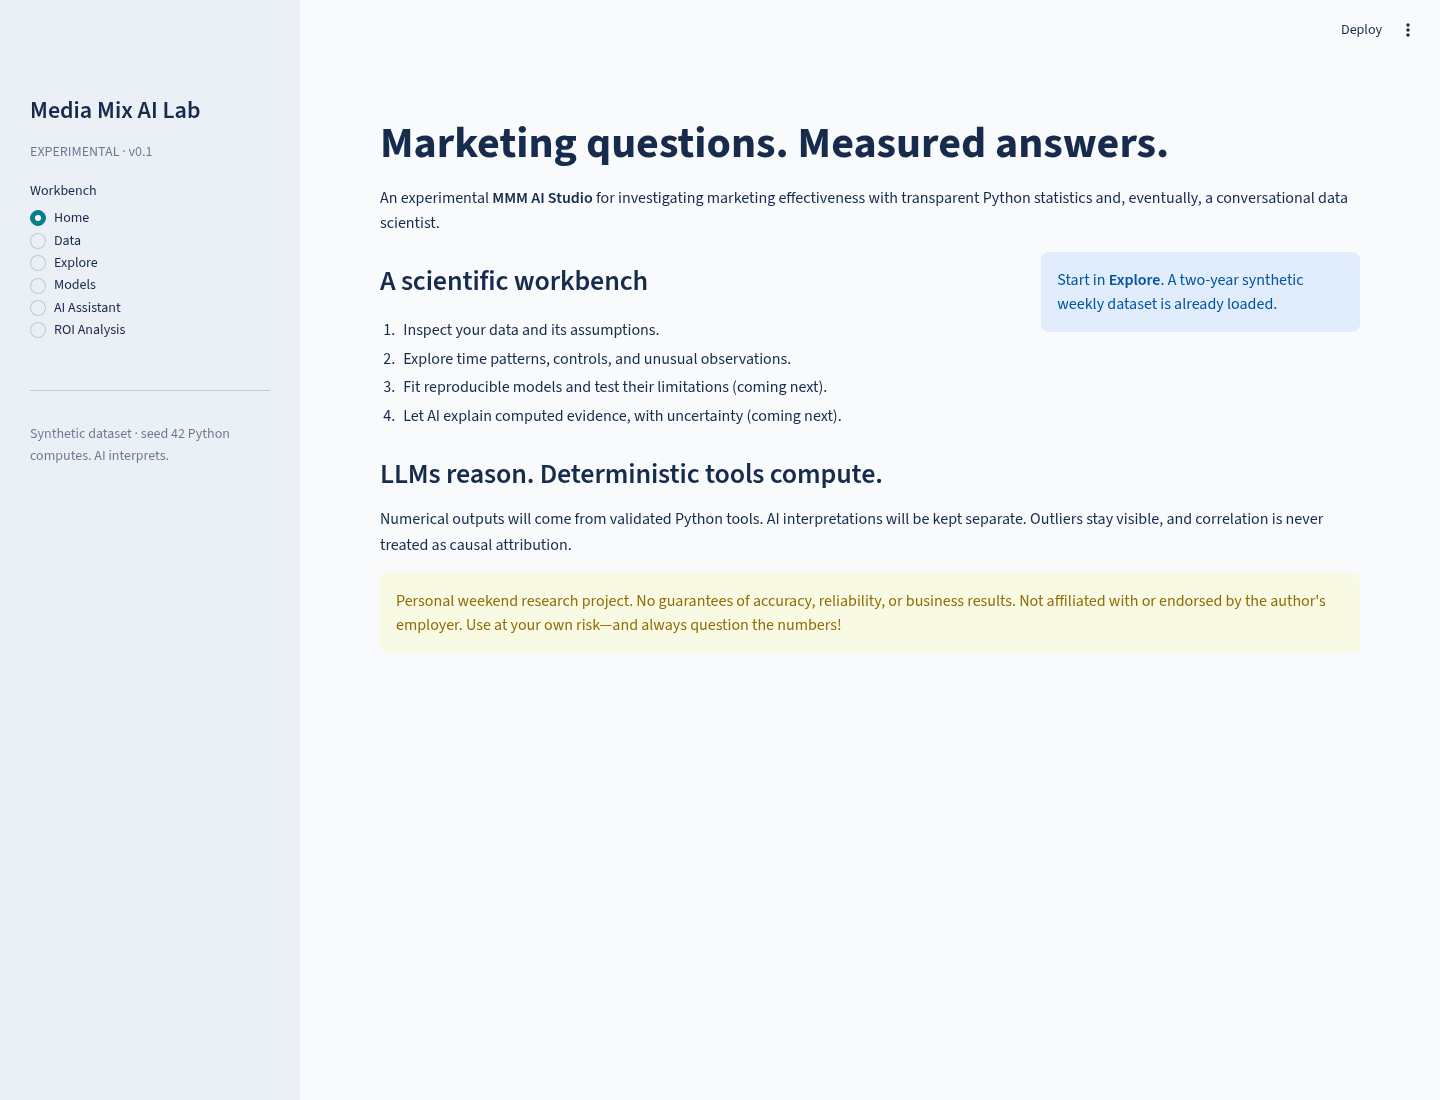
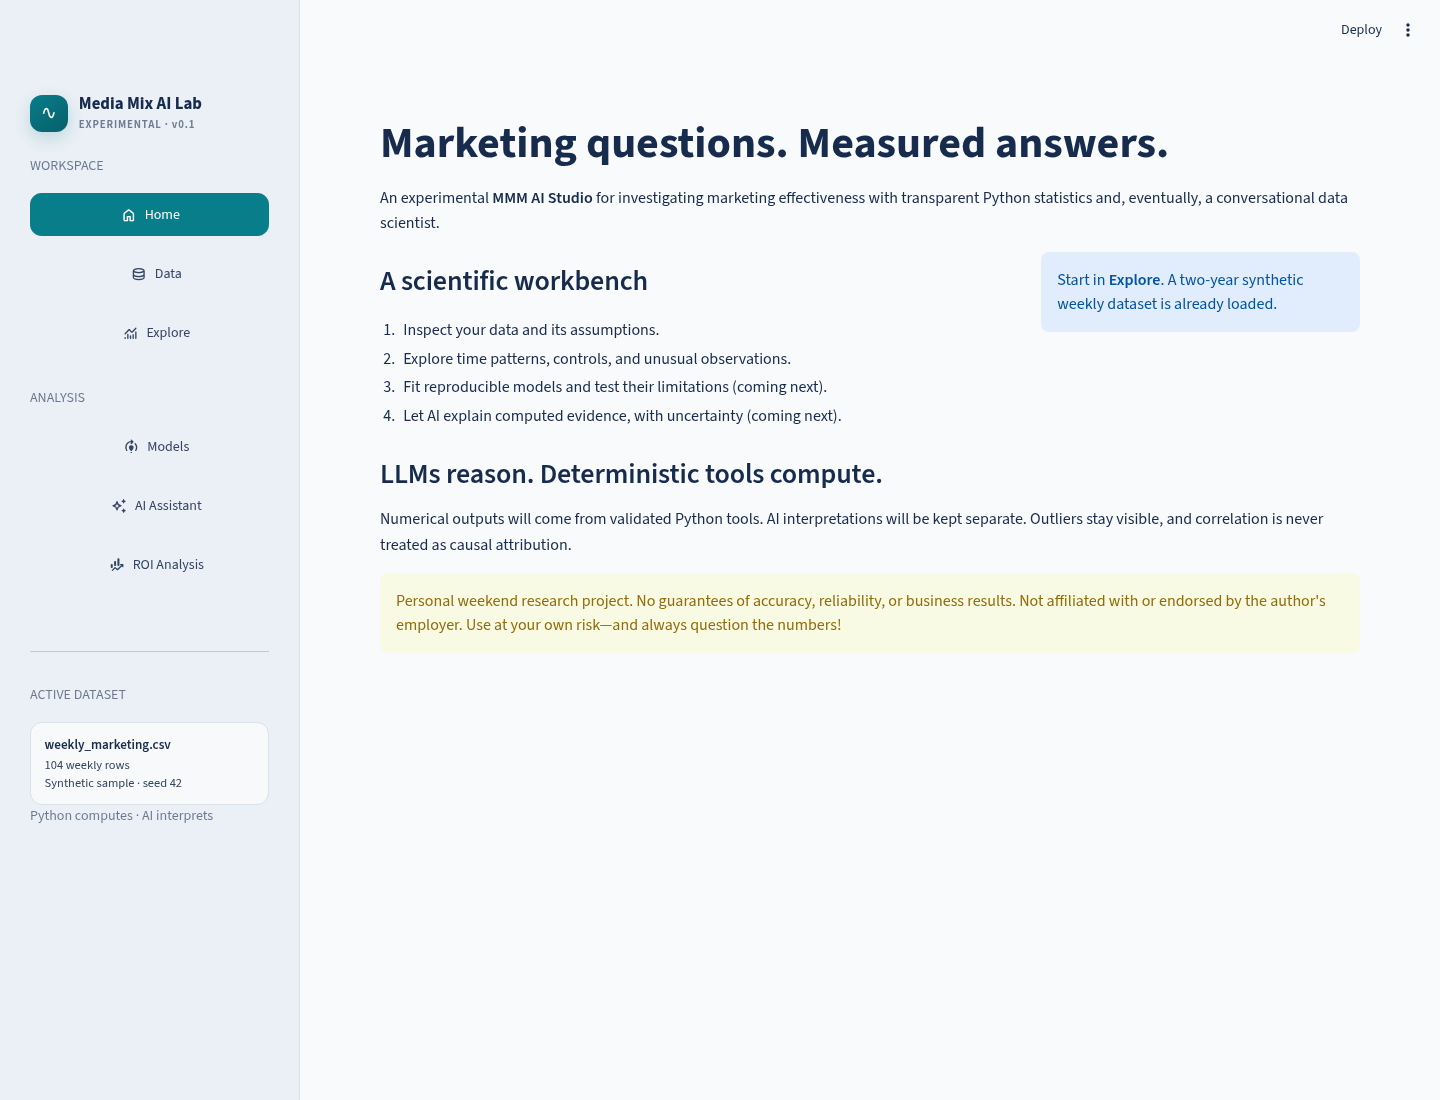
Replace sidebar radio with polished navigation

diff --git a/src/media_mix_ai_lab/ui/app.py b/src/media_mix_ai_lab/ui/app.py
@@ -1,6 +1,7 @@
 """Streamlit presentation only: deterministic computation lives outside the UI."""
 
 import hashlib
+import html
 
 import pandas as pd
 import plotly.express as px
@@ -17,7 +18,145 @@ from media_mix_ai_lab.data.workspace import (
     validate_weekly_dataset,
 )
 
-SECTIONS = ("Home", "Data", "Explore", "Models", "AI Assistant", "ROI Analysis")
+NAVIGATION = (
+    (
+        "Workspace",
+        (
+            ("Home", ":material/home:"),
+            ("Data", ":material/database:"),
+            ("Explore", ":material/monitoring:"),
+        ),
+    ),
+    (
+        "Analysis",
+        (
+            ("Models", ":material/model_training:"),
+            ("AI Assistant", ":material/auto_awesome:"),
+            ("ROI Analysis", ":material/finance_mode:"),
+        ),
+    ),
+)
+
+SIDEBAR_STYLE = """
+<style>
+    [data-testid="stSidebar"] {
+        border-right: 1px solid #d8e2e8;
+    }
+    [data-testid="stSidebar"] [data-testid="stButton"] button {
+        min-height: 2.7rem;
+        justify-content: flex-start;
+        border-radius: 0.7rem;
+        font-weight: 600;
+        padding-left: 0.85rem;
+        transition: background-color 120ms ease, border-color 120ms ease;
+    }
+    [data-testid="stSidebar"] [data-testid="stButton"] button[kind="tertiary"] {
+        color: #344563;
+    }
+    [data-testid="stSidebar"] [data-testid="stButton"] button[kind="tertiary"]:hover {
+        background: #e2edf0;
+        color: #075f69;
+    }
+    .lab-brand {
+        display: flex;
+        align-items: center;
+        gap: 0.7rem;
+        margin: 0.1rem 0 1.35rem;
+    }
+    .lab-mark {
+        display: grid;
+        place-items: center;
+        width: 2.35rem;
+        height: 2.35rem;
+        border-radius: 0.75rem;
+        color: white;
+        background: linear-gradient(145deg, #087e8b, #075f69);
+        font-size: 1.2rem;
+        box-shadow: 0 6px 16px rgba(8, 126, 139, 0.2);
+    }
+    .lab-name {
+        color: #172b4d;
+        font-size: 1.05rem;
+        font-weight: 750;
+        line-height: 1.15;
+    }
+    .lab-version {
+        color: #6b7c93;
+        font-size: 0.68rem;
+        font-weight: 650;
+        letter-spacing: 0.08em;
+        margin-top: 0.18rem;
+    }
+    .dataset-card {
+        background: rgba(255, 255, 255, 0.62);
+        border: 1px solid #d8e2e8;
+        border-radius: 0.75rem;
+        color: #344563;
+        font-size: 0.78rem;
+        line-height: 1.45;
+        padding: 0.75rem 0.85rem;
+    }
+    .dataset-card strong {
+        color: #172b4d;
+        display: block;
+        font-size: 0.82rem;
+        margin-bottom: 0.1rem;
+        overflow-wrap: anywhere;
+    }
+</style>
+"""
+
+
+def _navigate(section: str) -> None:
+    """Persist the active page across Streamlit reruns."""
+    st.session_state["active_section"] = section
+
+
+def sidebar_navigation(source: dict[str, str | int], row_count: int) -> str:
+    """Render the branded navigation rail and return the active section."""
+    if "active_section" not in st.session_state:
+        st.session_state["active_section"] = "Home"
+    section = st.session_state["active_section"]
+    with st.sidebar:
+        st.markdown(SIDEBAR_STYLE, unsafe_allow_html=True)
+        st.markdown(
+            """
+            <div class="lab-brand">
+                <div class="lab-mark">∿</div>
+                <div>
+                    <div class="lab-name">Media Mix AI Lab</div>
+                    <div class="lab-version">EXPERIMENTAL · v0.1</div>
+                </div>
+            </div>
+            """,
+            unsafe_allow_html=True,
+        )
+        for group, items in NAVIGATION:
+            st.caption(group.upper())
+            for label, icon in items:
+                st.button(
+                    label,
+                    key=f"nav_{label.lower().replace(' ', '_')}",
+                    icon=icon,
+                    type="primary" if section == label else "tertiary",
+                    use_container_width=True,
+                    on_click=_navigate,
+                    args=(label,),
+                )
+            st.write("")
+        st.divider()
+        kind = "Synthetic sample · seed 42" if source["kind"] == "synthetic" else "Uploaded CSV"
+        filename = html.escape(str(source["filename"]))
+        st.caption("ACTIVE DATASET")
+        st.markdown(
+            '<div class="dataset-card">'
+            f"<strong>{filename}</strong>"
+            f"{row_count:,} weekly rows<br>{kind}"
+            "</div>",
+            unsafe_allow_html=True,
+        )
+        st.caption("Python computes · AI interprets")
+    return section
 
 
 def home() -> None:
@@ -266,17 +405,12 @@ def roi() -> None:
 
 def main() -> None:
     st.set_page_config(page_title="Media Mix AI Lab", page_icon="🔬", layout="wide")
-    with st.sidebar:
-        st.title("Media Mix AI Lab")
-        st.caption("EXPERIMENTAL · v0.1")
-        section = st.radio("Workbench", SECTIONS)
-        st.divider()
-        st.caption("Synthetic dataset · seed 42\nPython computes. AI interprets.")
     if "dataset" not in st.session_state:
         _load_sample()
     frame = st.session_state["dataset"]
     mapping = st.session_state["dataset_mapping"]
     source = st.session_state["dataset_source"]
+    section = sidebar_navigation(source, len(frame))
     try:
         if source["kind"] == "upload":
             validate_weekly_dataset(frame, mapping)

diff --git a/tests/test_app.py b/tests/test_app.py
@@ -4,6 +4,19 @@ import pytest
 from streamlit.testing.v1 import AppTest
 
 APP = Path(__file__).resolve().parents[1] / "app.py"
+NAVIGATION_INDEX = {
+    "Home": 0,
+    "Data": 1,
+    "Explore": 2,
+    "Models": 3,
+    "AI Assistant": 4,
+    "ROI Analysis": 5,
+}
+
+
+def navigate(app: AppTest, section: str) -> AppTest:
+    """Click the same navigation control a user sees in the sidebar."""
+    return app.sidebar.button[NAVIGATION_INDEX[section]].click().run()
 
 
 @pytest.mark.parametrize(
@@ -11,8 +24,11 @@ APP = Path(__file__).resolve().parents[1] / "app.py"
 )
 def test_workbench_sections_render_without_credentials(section):
     app = AppTest.from_file(str(APP), default_timeout=20).run()
-    app.sidebar.radio[0].set_value(section).run()
+    navigate(app, section)
     assert not app.exception
+    assert not app.sidebar.radio
+    assert len(app.sidebar.button) == len(NAVIGATION_INDEX)
+    assert app.session_state["active_section"] == section
     assert len(app.session_state["dataset"]) == 104
     assert app.main.title[0].value == (
         "Marketing questions. Measured answers." if section == "Home" else section
@@ -26,7 +42,7 @@ def test_workbench_sections_render_without_credentials(section):
     elif section == "Data":
         assert len(app.dataframe[0].value) == 104
         assert not app.get("file_uploader")[0].disabled
-        app.button[0].click().run()
+        app.main.button[0].click().run()
         assert not app.exception
     elif section == "Models":
         app.selectbox[0].set_value("log_log").run()
@@ -39,14 +55,14 @@ def test_invalid_dataset_has_actionable_recovery():
     app.run()
     assert not app.exception
     assert "Missing required columns: revenue" in app.error[0].value
-    app.button[0].click().run()
+    app.main.button[0].click().run()
     assert not app.exception
     assert not app.error
 
 
 def test_csv_upload_mapping_provenance_and_exploration():
     app = AppTest.from_file(str(APP), default_timeout=20).run()
-    app.sidebar.radio[0].set_value("Data").run()
+    navigate(app, "Data")
     content = b"date,sales,search,is_injected_outlier\n2024-01-01,10,0,0\n2024-01-08,12,2,1\n"
     app.get("file_uploader")[0].set_value(("weekly.csv", content, "text/csv")).run()
     assert not app.exception
@@ -61,6 +77,6 @@ def test_csv_upload_mapping_provenance_and_exploration():
     assert app.session_state["dataset_mapping"]["channels"] == ("search",)
     assert len(app.session_state["dataset"]) == 2
 
-    app.sidebar.radio[0].set_value("Explore").run()
+    navigate(app, "Explore")
     assert not app.exception
     assert len(app.get("plotly_chart")) == 1
